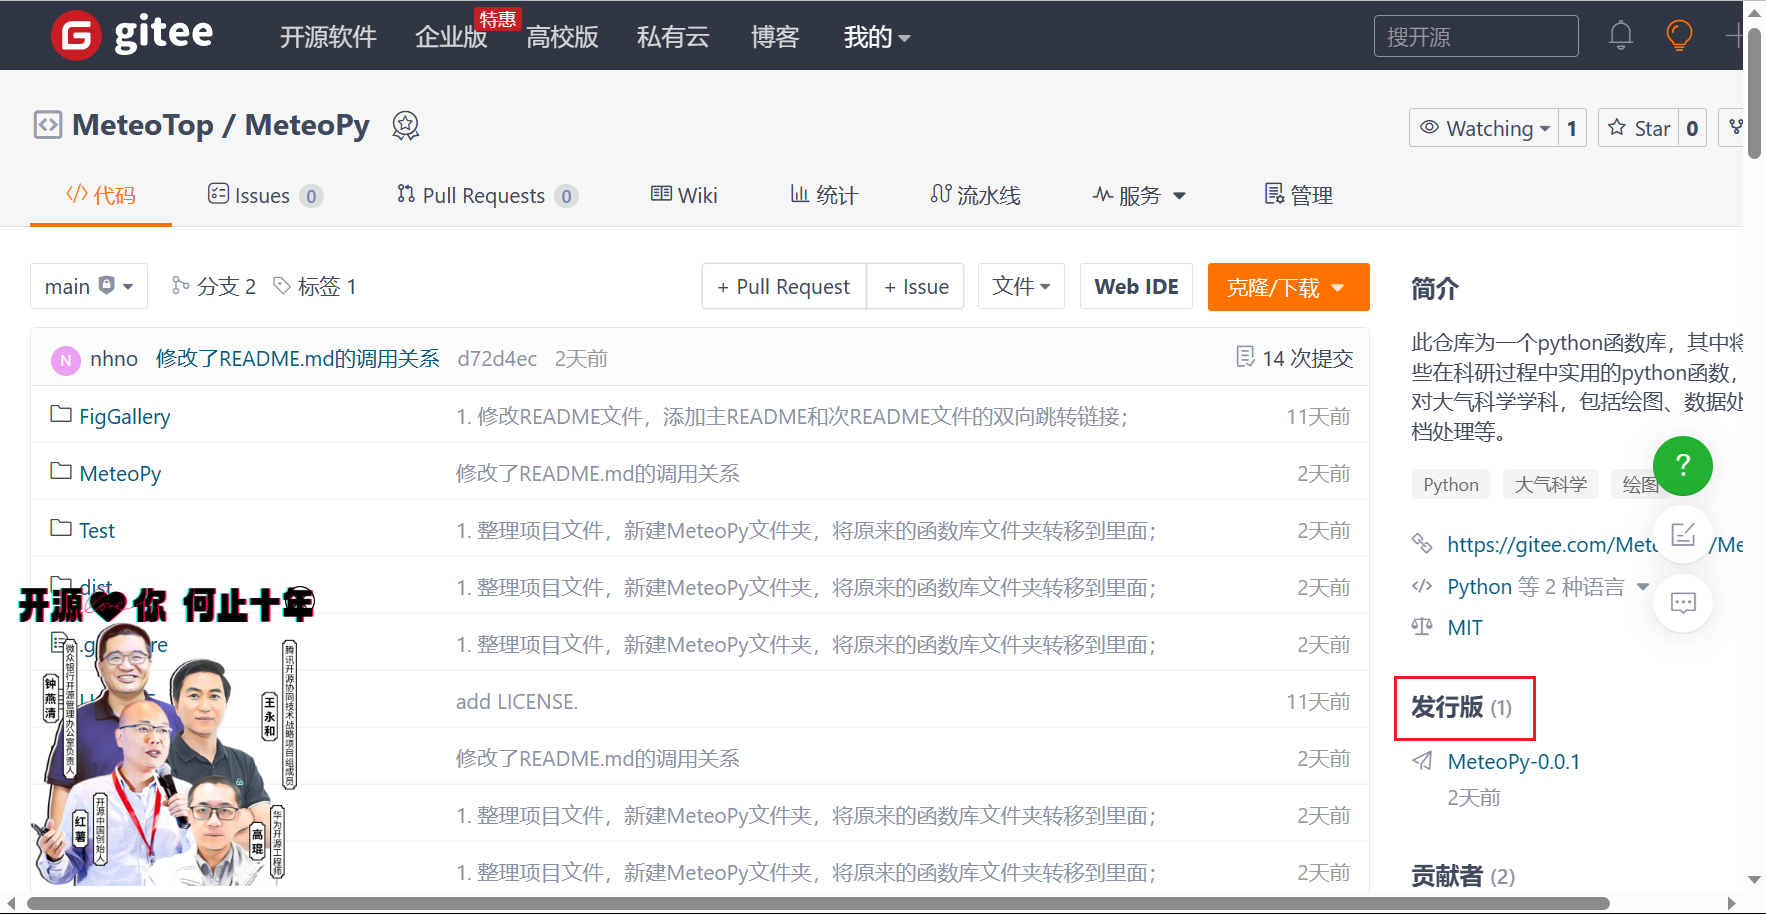
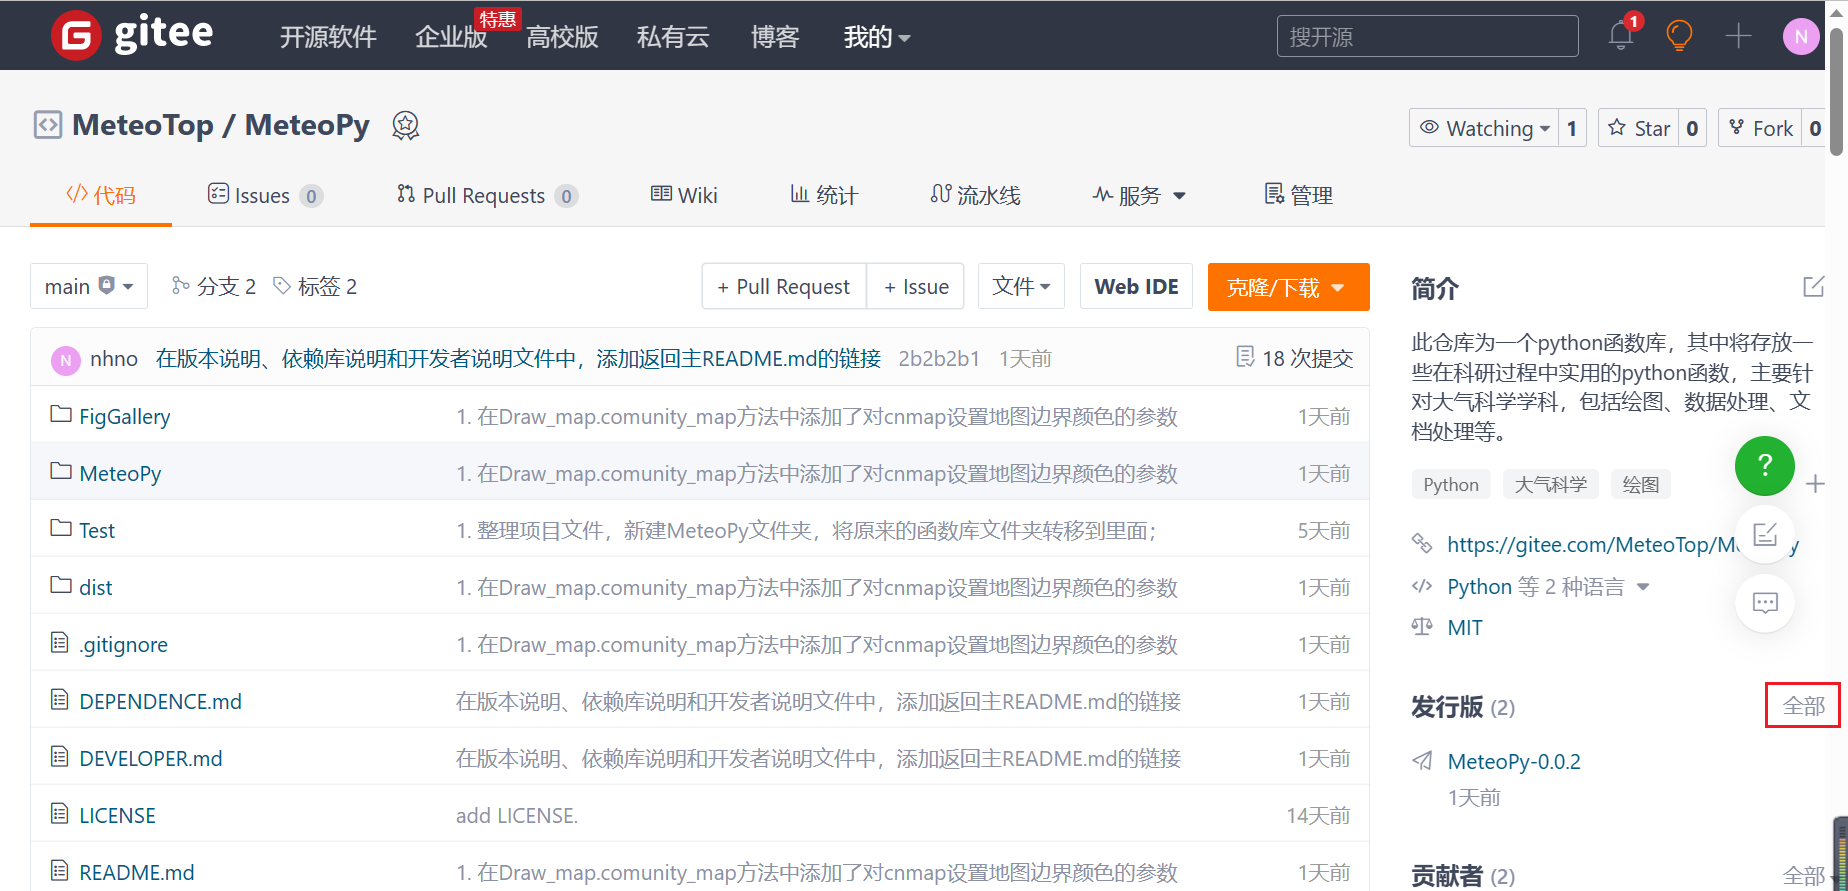
1. 在README.md文件中添加标签，将MeteoPy安装说明拆分为单独的文件； 2. 创建ENVIRONMENT.yml虚拟环境备份文件；

diff --git a/README.md b/README.md
@@ -1,43 +1,52 @@
-# MeteoPy
-在此仓库中将存放一些我们在科研过程中实用的python脚本，主要针对大气科学学科。
+<div align="center">
+<!-- Title: -->
+  <a href="https://gitee.com/MeteoTop/MeteoPy">
+    <img src="./FigGallery/HEAD_log_1.png" height="100">
+  </a>
+  <h1><a href="https://gitee.com/MeteoTop/MeteoPy">MeteoPy</a> - Python</h1>
+<!-- Labels: -->
+  <!-- First row: -->
+  <a href="https://gitee.com/MeteoTop/MeteoPy/blob/main/DEVELOPER.md">
+    <img src="https://img.shields.io/badge/Contributions-Welcome-blue" height="20">
+  </a>
+  <a href="https://gitee.com/MeteoTop/MeteoPy/releases">
+    <img src="https://img.shields.io/badge/MeteoPy-v0.0.2-brightgreen" height="20">
+  </a>
+  <a href="https://gitee.com/MeteoTop/MeteoPy/releases">
+    <img src="https://img.shields.io/badge/Size-30KB-9cf" height="20">
+  </a>
+    
+  <!-- Second row: -->
+  <br>
+  <a href="https://gitee.com/MeteoTop">
+    <img src="https://img.shields.io/badge/Author-@MeteoTop-orange" height="20">
+  </a>
+  <a href="https://gitee.com/MeteoTop/MeteoPy">
+    <img src="https://img.shields.io/badge/Last%20commit-2023--5--22-yellowgreen" height="20">
+  </a>
 
-## MeteoPy库如何下载
-
-1. 首先进入本函数库的开源官网：https://gitee.com/MeteoTop/MeteoPy；
-
-2. 在右侧栏找到“发行版”标签，点击进入发行版；
-
-   ![HowDownload_1](./FigGallery/HowDownload_1.png)
-
-3. 选择你所需要下载的版本，点击对应版本下载`.whl`文件；
-
-   ![HowDownload_2](./FigGallery/HowDownload_2.png)
-
-4. 本地安装MeteoPy库；
-
-   + 如果像直接将MeteoPy库安装到本地的主python环境中，则打开cmd命令行，`pip install + 刚刚下载的whl文件地址`；
-
-     ![HowDownload_3](./FigGallery/HowDownload_3.png)
-
-   + 如果想安装在conda的某个虚拟环境中，则先打开`Anaconda Prompt`，然后进入目标虚拟环境`conda activate **`，最后再`pip install + 刚刚下载的whl文件地址`;
-
-     ![HowDownload_4](./FigGallery/HowDownload_4.png)
-
-     ![HowDownload_5](./FigGallery/HowDownload_5.png)
-
-     
-
-**注意：不要，不要，不要直接`pip install MeteoPy`，因为在PyPI官网上有同名函数，所有直接下载的并不是我们这个MetetoPy**
+  <!-- Short description: -->
+  <h5>在此仓库中将存放一些我们在科研过程中实用的python脚本，主要针对大气科学学科</h5>
+</div>
 
 
+
+## 如何使用
+
+请参照[MeteoPy如何安装](./DOWNLOAD.md)。
+
+## 开发者
+
+我们尝试将一些在大气科学学科科研中经常使用到的python程序封装成`函数`或者`类`，为气象事业做出自己的一份贡献。如果有志同道合的朋友，愿意为本开源函数库做出贡献，请仔细阅读[开发者说明](./DEVELOPER.md)。
+
+## 依赖库说明
+
+本函数库也依赖其他python库，详见[MeteoPy依赖库说明](./DEPENDENCE.md)。
 
 
 ## 函数库说明
 
 此函数库中存有多个文件夹，初略可分为`功能文件夹`和`测试文件夹`。
-
-+ 本函数库也依赖其他python库，详见[MeteoPy依赖库说明](./DEPENDENCE.md)；
-+ 我们尝试将一些在科研中经常使用到的python程序封装成`函数`或者`类`，方便下次使用。如果有志同道合的朋友，愿意为本开源函数库做出贡献，请仔细阅读[开发者说明](./DEVELOPER.md)；
 
 ### Test
 
@@ -68,6 +77,8 @@
 此文件夹为数据处理文件夹，属于功能文件夹。存放一些数据处理的函数。
 
 [数据处理文件夹介绍](./MeteoPy/DataPro/README.md)
+
+
 
 
 

diff --git a/DOWNLOAD.md b/DOWNLOAD.md
@@ -1,0 +1,33 @@
+# MeteoPy库如何安装
+
+1. 首先进入本函数库的开源官网：https://gitee.com/MeteoTop/MeteoPy；
+
+2. 在右侧栏找到“发行版”标签，点击进入发行版；
+
+   ![HowDownload_1](C:/Users/NH4NO3nice/Desktop/MeteoTop/MeteoPy/FigGallery/HowDownload_1.png)
+
+3. 选择你所需要下载的版本，点击对应版本下载`.whl`文件；
+
+   ![HowDownload_2](C:/Users/NH4NO3nice/Desktop/MeteoTop/MeteoPy/FigGallery/HowDownload_2.png)
+
+4. 本地安装MeteoPy库；
+
+   + 如果像直接将MeteoPy库安装到本地的主python环境中，则打开cmd命令行，`pip install + 刚刚下载的whl文件地址`；
+
+     ![HowDownload_3](C:/Users/NH4NO3nice/Desktop/MeteoTop/MeteoPy/FigGallery/HowDownload_3.png)
+
+   + 如果想安装在conda的某个虚拟环境中，则先打开`Anaconda Prompt`，然后进入目标虚拟环境`conda activate **`，最后再`pip install + 刚刚下载的whl文件地址`;
+
+     ![HowDownload_4](C:/Users/NH4NO3nice/Desktop/MeteoTop/MeteoPy/FigGallery/HowDownload_4.png)
+
+     ![HowDownload_5](C:/Users/NH4NO3nice/Desktop/MeteoTop/MeteoPy/FigGallery/HowDownload_5.png)
+
+     
+
+**注意：不要，不要，不要**
+
+**不要直接`pip install MeteoPy`，因为在PyPI官网上有同名函数，所有直接下载的并不是此MetetoPy库**
+
+
+
+[返回主README文件](./README.md)

diff --git a/DEPENDENCE.md b/DEPENDENCE.md
@@ -10,6 +10,28 @@
 
   ![DEPENDENCE_2](./FigGallery/DEPENDENCE_2.png)
 
+## 环境配置（推荐）
+
+在仓库主目录下，存有一个测试环境的备份文件[ENVIRONMENT.yml](./ENVIRONMENT.yml)，根据此文件可以直接移植我们的测试环境(python虚拟环境)。
+
++ 首先，根据1.1的方法安装`miniconda`，或者安装`anaconda`；
+
++ fork/下载/复制本仓库主目录下的[ENVIRONMENT.yml](./ENVIRONMENT.yml)文件；
+
++ 修改`ENVIRONMENT.yml`文件第一行，根据需要将`MeteoPyTestEnv`改成你喜欢的虚拟环境名称，可以不更改；
+
+  ![DEPENDENCE_3](./FigGallery/DEPENDENCE_3.png)
+
++ 进入`Anaconda Prompt`；
+
+  ![HowDownload_4](./FigGallery/HowDownload_4.png)
+
++ 输入`conda env create -f`+`下载的ENVIRONMENT.yml文件的实际地址`
+
+  ![DEPENDENCE_4](./FigGallery/DEPENDENCE_4.png)
+
+  
+
 ## 绘图模块
 
 在绘图模块`MeteoDraw`主要依赖如下python函数库，在使用绘图模块之前，要预先安装一下库：
@@ -24,11 +46,7 @@
   >>> conda install -c conda-forge cnmaps==1.1.1
   ```
 
-**注意：**建议直接安装cnmaps，其他库会依赖安装；
-
-
-
-
+**注意：建议直接安装cnmaps，其他库会依赖安装**
 
 
 

diff --git a/DEVELOPER.md b/DEVELOPER.md
@@ -42,9 +42,7 @@ def Function(var1 : str,
     
     # # 如何对字典类型的可选参数进行初始化
     # # 使用户使用时只需指定修改的参数即可，不用将所有参数都写上
-    import sys
-	sys.path.append('../../')  # 将MeteoPy目录放入搜索目录
-    from Tools.FunVarDefault import dict_default
+    from MeteoPy import dict_default
     
     # # 处理var5默认值问题
     var5_default = {'a':1, 'b':2, 'c':3}  # 指定var5的默认值
@@ -74,12 +72,6 @@ def Function(var1 : str,
   
   # # 单行注释 
   ```
-
-
-
-
-
-
 
 
 
